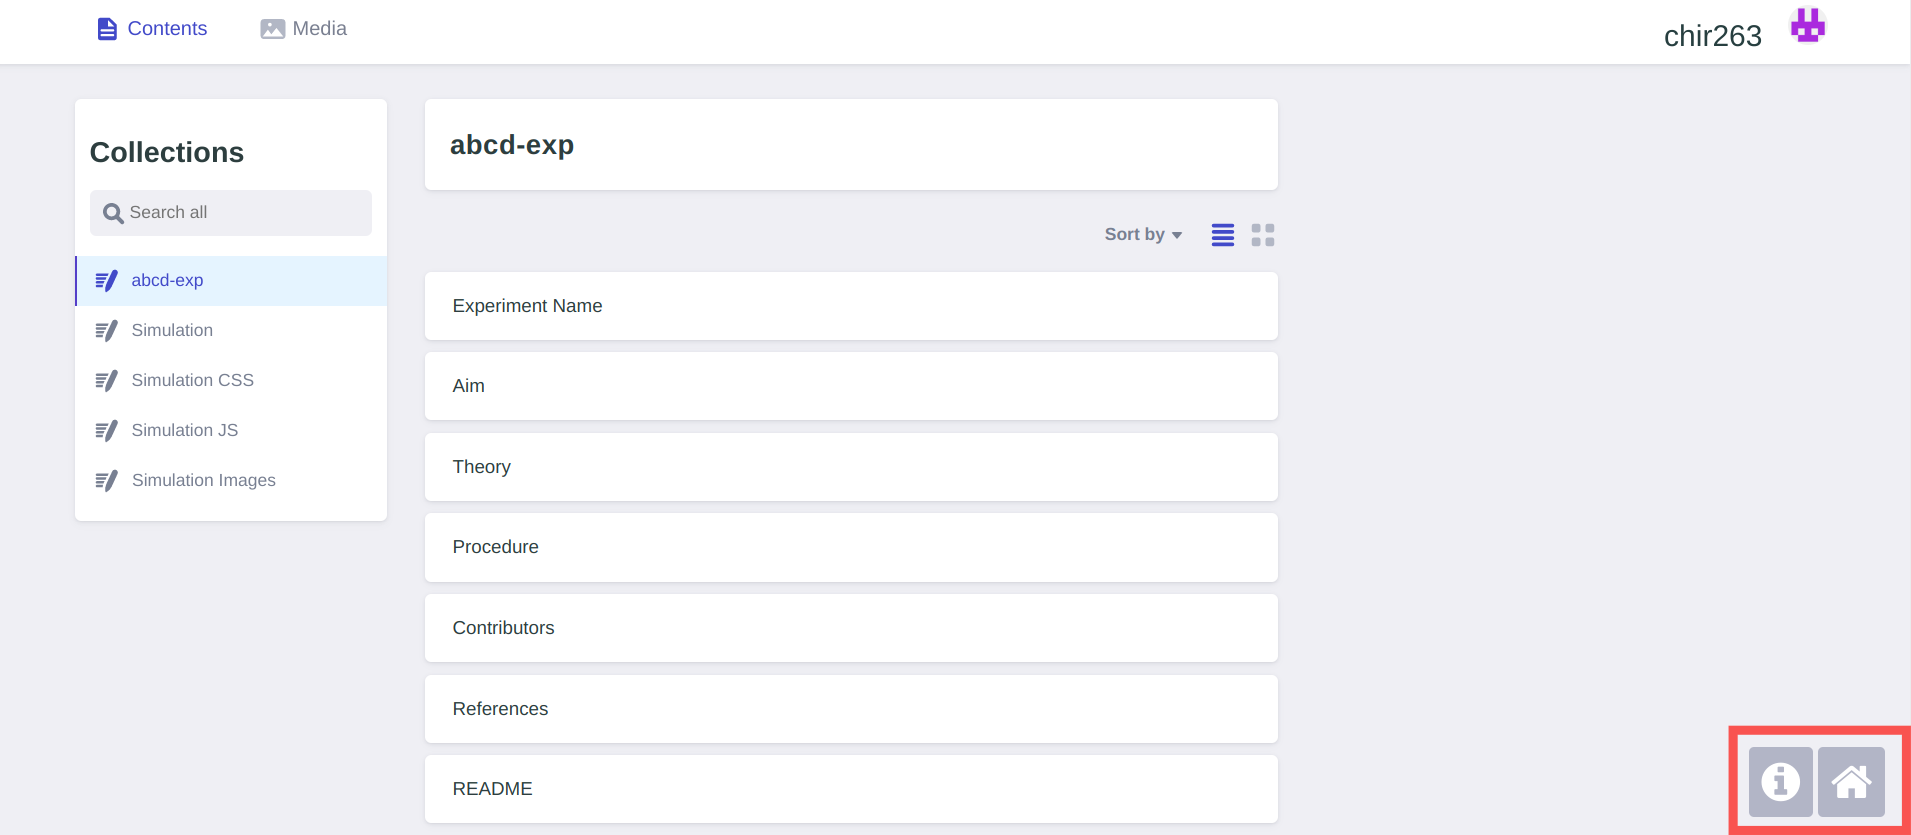
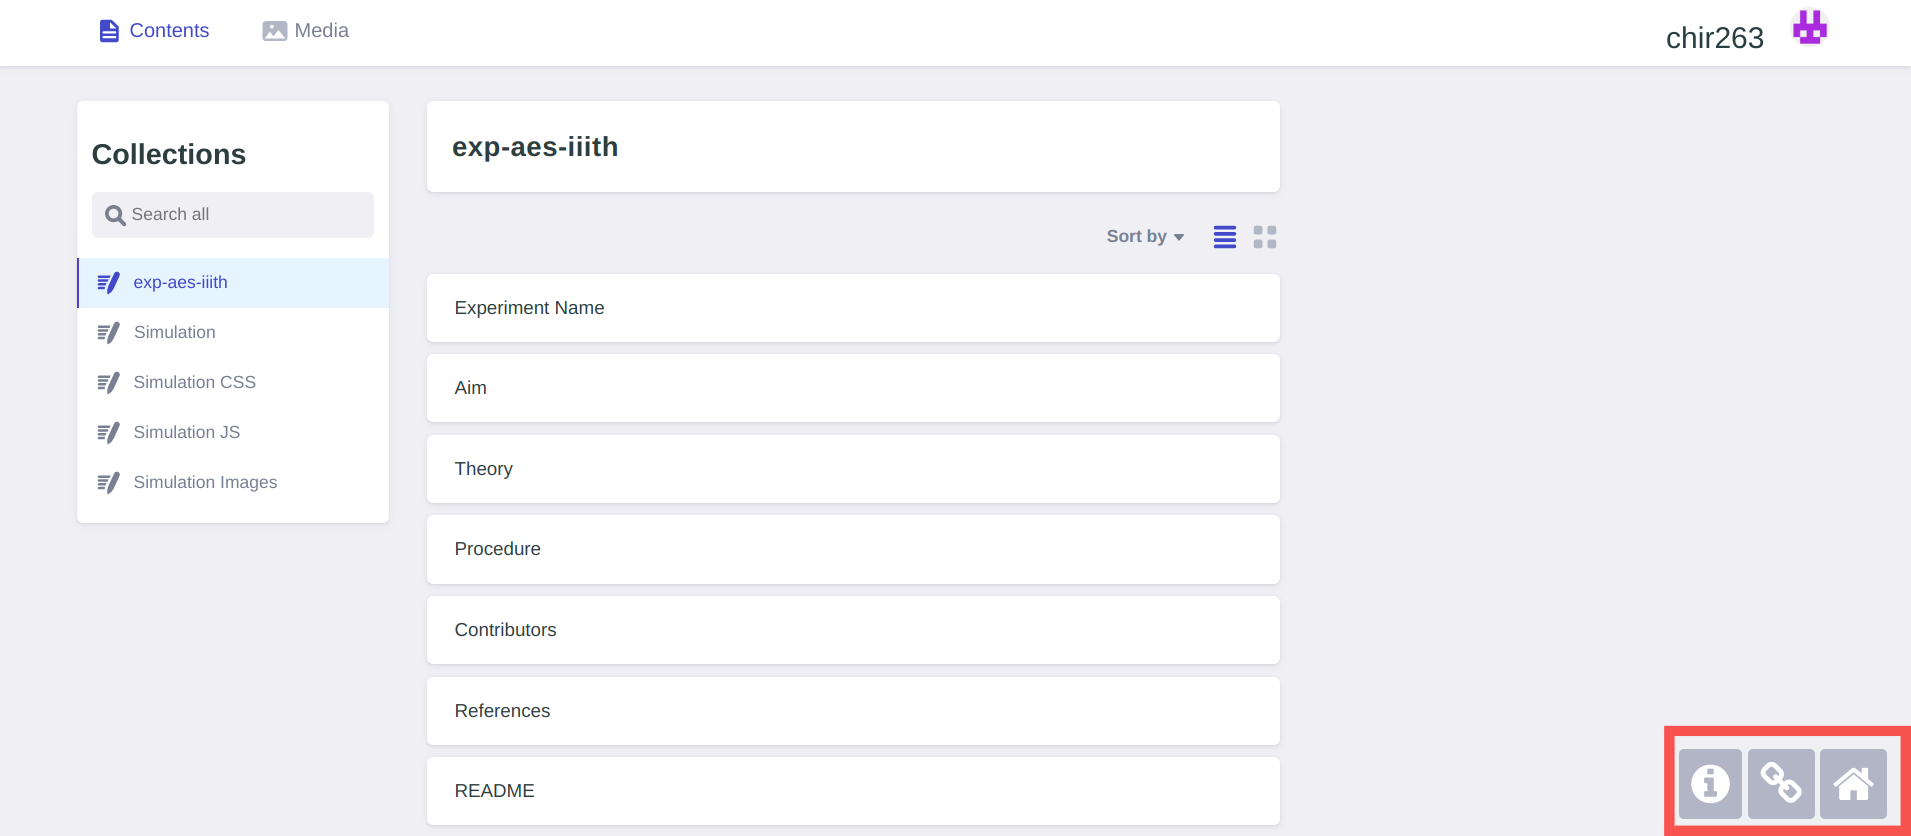
cms

diff --git a/index.html b/index.html
@@ -359,10 +359,12 @@
             <p class="step-text">
               The experiment editing page will always contain two fixed buttons located at the bottom right corner:
               <ul class="step-text">
-                <li><b>Home Button:</b> To redirect the user to the landing page, click on the "Home" icon. This will take you back to the main page or starting point of the application.</li>  
 
               <li>   <b>Information Button:</b> To access the help manual or additional information, click on the "i" icon. This button will open the help manual, providing guidance and assistance related to the experiment editing process.</li>  
-              </ul>
+              <li>   <b>Deployment Button:</b> To redirect the user to the deployment link for experiment. This will be updated after each change. It may take 1-2 minutes to update site.</li>  
+                <li><b>Home Button:</b> To redirect the user to the landing page, click on the "Home" icon. This will take you back to the main page or starting point of the application.</li>  
+              
+            </ul>
               Please utilize these buttons as needed for seamless navigation and accessing helpful resources during your editing experience.
             </p>
           </div>
